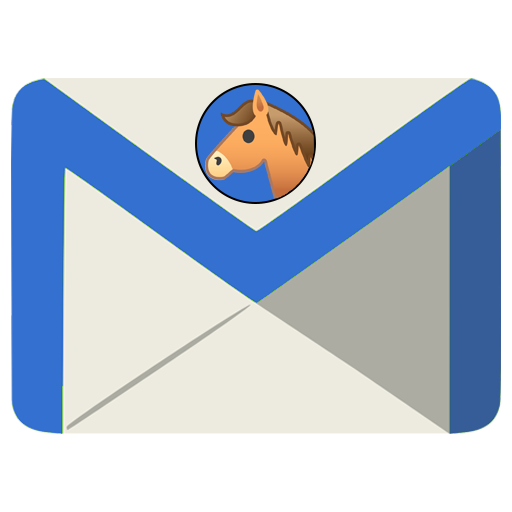
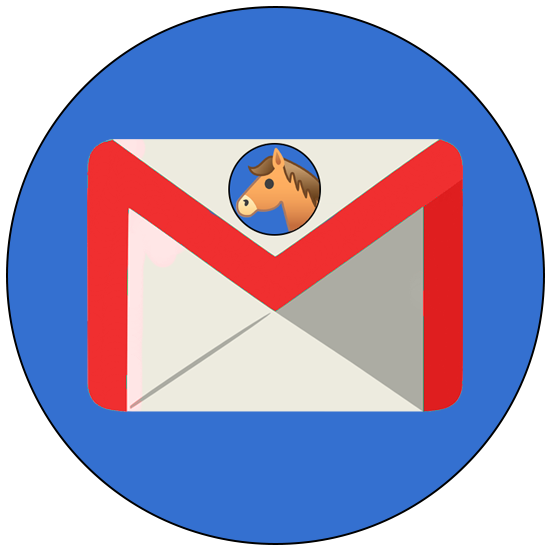
cosmatic

diff --git a/css/main.css b/css/main.css
@@ -1,0 +1,194 @@
+.flex {
+    display: flex;
+}
+
+.column {
+    flex-direction: column;
+}
+
+.align-center {
+    align-items: center;
+}
+
+.justify-center {
+    justify-content: center;
+}
+
+.space-between {
+    justify-content: space-between;
+}
+
+.space-around {
+    justify-content: space-around;
+}
+
+.space-evenly {
+    justify-content: space-evenly;
+}
+
+.flex-start {
+    justify-content: flex-start;
+}
+
+.wrapper {
+    max-width: 1000px;
+    margin: auto;
+}
+
+header {
+    background-color: brown;
+    height: 120px;
+}
+
+header .wrapper {
+    padding: 15px 30px;
+}
+
+.home-page h1 {
+    position: absolute;
+    top: 50%;
+    left: 50%;
+    transform: translate(-50%, -50%);
+    font-size: 3rem;
+}
+
+.home-page span {
+    display: inline;
+}
+
+.logo {
+    display: grid;
+    grid-template-columns: 90px 1fr;
+    gap: 20px;
+}
+
+.logo-txt {
+    font-family: permanent-marker;
+    font-size: 3em;
+}
+
+.logo-img {
+    height: 90px;
+    width: 90px;
+    background-size: contain;
+}
+
+.horse-large {
+    display: flex;
+    height: 120px;
+    width: 120px;
+    /* background-image: url('../img/large-horse-icon.png'); */
+    background-size: contain;
+}
+
+.nav {
+    font-size: 2em;
+    color: beige;
+}
+
+.nav a {
+    color: inherit;
+}
+
+.nav a:hover {
+    color: rgb(240, 98, 98);
+}
+
+.mobile-menu-button {
+    display: none;
+}
+
+@media (max-width: 750px) {
+    .line {
+        display: none;
+    }
+
+    header {
+        background-color: brown;
+        height: 80px;
+    }
+    
+    header .wrapper {
+        padding: 5px 10px;
+    }
+
+    .logo {
+        grid-template-columns: 90px 1fr;
+        gap: 10px;
+    }
+
+    .logo-img {
+        height: 70px;
+        width: 70px;
+    }
+
+    .mobile-menu-button {
+        display: block;
+        position: absolute;
+        right: 20px;
+        top: 15px;
+        cursor: pointer;
+    }
+    
+    .bar1, .bar2, .bar3 {
+        width: 35px;
+        height: 5px;
+        background-color: white;
+        margin: 6px 0;
+        transition: 0.4s;
+    }
+    
+    .change .bar1 {
+        transform: rotate(-45deg) translate(-9px, 6px);
+    }
+    
+    .change .bar2 {
+        opacity: 0;
+    }
+    
+    .change .bar3 {
+        transform: rotate(45deg) translate(-9px, -8px);
+    }
+    
+    .nav {
+        flex-direction: column;
+        z-index: 50;
+        position: fixed;
+        right: -40px;
+        top: 80px;
+        background-color: rgba(58, 56, 56, 0.8);
+        height: 100vh;
+        border-left: 1px solid rgba(0, 0, 0, 0.2);
+        transform: translate(100%, 0);
+        transition: transform .8s;
+    }
+    
+    .nav a {
+        padding: 30px;
+    }
+
+    body.open .nav {
+        transform: translate(-20%, 0);
+    }
+    
+    .screen {
+        position: fixed;
+        width: 100%;
+        height: 100%;
+        top: 0;
+        left: 0;
+        background: #000;
+        background: rgba(0, 0, 0, 0.35);
+        visibility: hidden;
+        opacity: 0;
+        cursor: pointer;
+        z-index: 3;
+        transition: opacity .3s;
+    }
+    
+    body.open .screen {
+        visibility: visible;
+        opacity: 1;
+    }
+}
+

diff --git a/js/cmps/nav-bar-cmp.js b/js/cmps/nav-bar-cmp.js
@@ -1,9 +1,22 @@
 export default {
     template: `
-    <section class="nav" id="nav-bar">
-        <router-link exact to="/">Home</router-link> |
-        <router-link exact to="/miss-keep">Miss Keep</router-link> |
-        <router-link exact to="/email">Mr Email</router-link>
+    <section class="nav-bar" id="nav-bar">
+        <div id="mobile-menu-button" class="mobile-menu-button" @click="toggleMenu">
+            <div class="bar1"></div>
+            <div class="bar2"></div>
+            <div class="bar3"></div>
+        </div>
+        <div class="nav flex">
+            <router-link exact to="/">Home</router-link> <span class="line">|</span>
+            <router-link exact to="/miss-keep">Miss Keep</router-link> <span class="line">|</span>
+            <router-link exact to="/email">Mr Email</router-link>  
+        </div>
     </section>
-    `
+    `,
+    methods: {
+        toggleMenu() {
+            document.getElementById("mobile-menu-button").classList.toggle("change");
+            document.body.classList.toggle('open');
+        }
+    }
 }

diff --git a/css/miss-keep.css b/css/miss-keep.css
@@ -2,76 +2,6 @@
     box-sizing: border-box;
 }
 
-.home-page h1 {
-    position: absolute;
-    top: 50%;
-    left: 50%;
-    transform: translate(-50%, -50%);
-    font-size: 3rem;
-}
-
-.home-page span {
-    display: inline;
-}
-
-.wrapper {
-    max-width: 1000px;
-    margin: auto;
-}
-
-header {
-    background-color: brown;
-    height: 120px;
-}
-
-header .wrapper {
-    padding: 15px 30px;
-}
-
-.logo {
-    display: grid;
-    grid-template-columns: 90px 1fr;
-    gap: 20px;
-}
-
-.logo-txt {
-    font-family: permanent-marker;
-    font-size: 3em;
-}
-
-.logo-img {
-    transform: rotateY(180deg);
-    height: 90px;
-    width: 90px;
-    background-image: url('../img/hourse-icon.png');
-    background-size: contain;
-}
-
-.nav {
-    font-size: 2em;
-    color: beige;
-}
-
-.nav a {
-    color: inherit;
-}
-
-.nav a:hover {
-    color: rgb(240, 98, 98);
-}
-
-.flex {
-    display: flex;
-}
-
-.align-center {
-    align-items: center;
-}
-
-.space-between {
-    justify-content: center;
-}
-
 .keep-app {
     padding: 30px;
 }

diff --git a/js/pages/home-page-cmp.js b/js/pages/home-page-cmp.js
@@ -5,13 +5,15 @@ export default {
         <div class="flex column">
             <div class="home-header flex align-center">
                 <h1>welcome to <span class="logo-txt">AppSus</span></h1>
+                <img src="img/large-horse-icon.png" class="horse-large">
             </div>
         </div>
     </section>
     `,
     created() {
         document.querySelector('title').innerHTML = 'AppSus';
-            document.getElementById('favicon').href = 'img/hourse-icon.png'; 
+        document.getElementById('favicon').href = 'img/final-horse-circle.png'; 
+        document.querySelector('.logo-img').src = 'img/final-horse-circle.png'; 
     },
 
 }

diff --git a/css/email.css b/css/email.css
@@ -17,38 +17,6 @@ button {
     height: 100%;
 }
 
-.space-around {
-    justify-content: space-around;
-}
-
-.align-center {
-    align-content: center;
-}
-
-.justify-center {
-    justify-content: center;
-}
-
-.flex {
-    display: flex;
-}
-
-.column {
-    flex-direction: column;
-}
-
-.space-between {
-    justify-content: space-between;
-}
-
-.space-evenly {
-    justify-content: space-evenly;
-}
-
-.flex-start {
-    justify-content: flex-start;
-}
-
 .email-actions-toolbar {
     margin-top: 10px; 
     align-items: center;

diff --git a/js/pages/email-page-cmp.js b/js/pages/email-page-cmp.js
@@ -54,7 +54,8 @@ export default {
                 eventBus.$emit(EVENT_FEEDBACK, { txt: 'Welcome to your inbox!', link: '' }, 'welcome')
             });
             document.querySelector('title').innerHTML = 'Mr Email';
-            document.getElementById('favicon').href = 'img/mr-email.png';             
+            document.getElementById('favicon').href = 'img/mr-email.png';
+            document.querySelector('.logo-img').src = 'img/mr-email.png';             
     },
     methods: {
         markAsUnread(emailId) {

diff --git a/index.html b/index.html
@@ -20,8 +20,8 @@
         <header>
             <div class="wrapper flex align-center space-between">
                 <div class="logo">
-                    <div class="logo-img"></div>
-                    <h1 class="logo-txt">AppSus</h1>
+                    <img class="logo-img" src="img/final-horse-circle.png" alt="">
+                    <h1 class="logo-txt flex align-center justify-center">AppSus</h1>
                 </div>
                 <nav-bar></nav-bar>
             </div>

diff --git a/js/apps/keep/pages/miss-keep-cmp.js b/js/apps/keep/pages/miss-keep-cmp.js
@@ -103,5 +103,6 @@ export default {
         eventBus.$on('toggle-pin', noteId => keepService.togglePin(noteId).then(notes => this.notes = notes))
         document.querySelector('title').innerHTML = 'Miss keep';
         document.getElementById('favicon').href = 'img/miss-keep.png';
+        document.querySelector('.logo-img').src = 'img/miss-keep.png';
     }
 }
